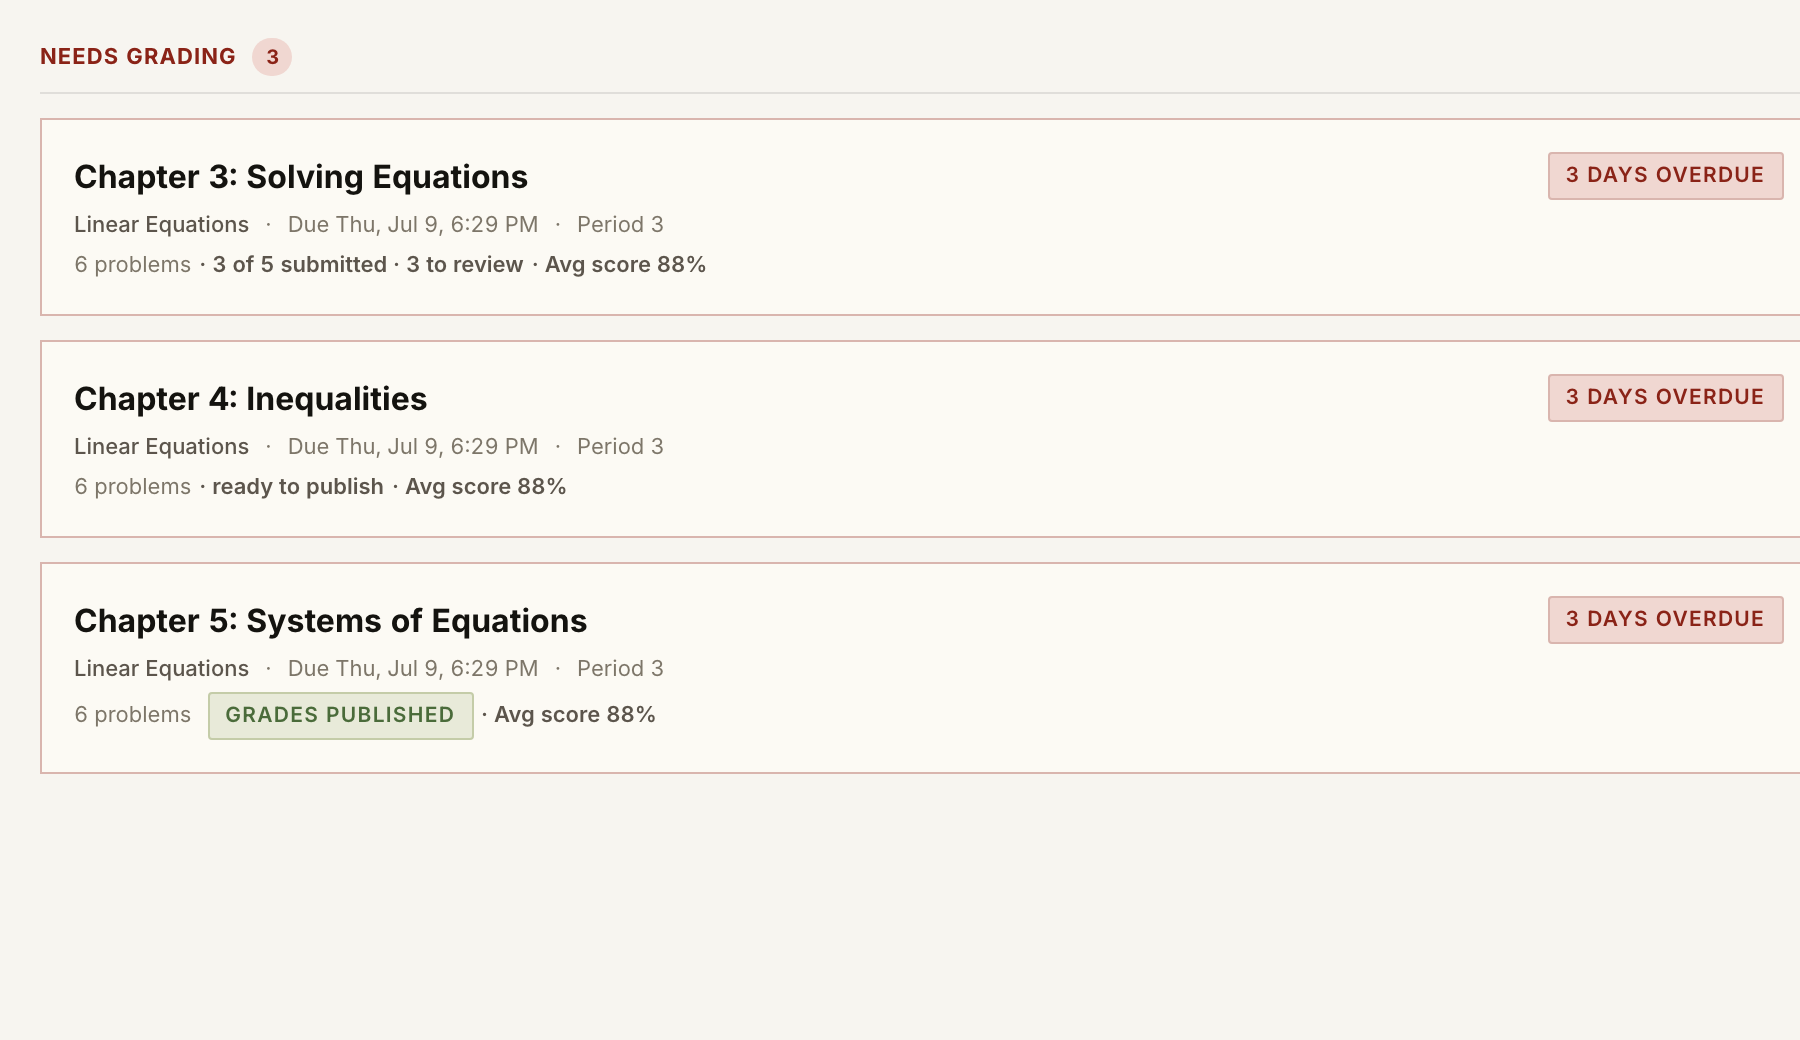
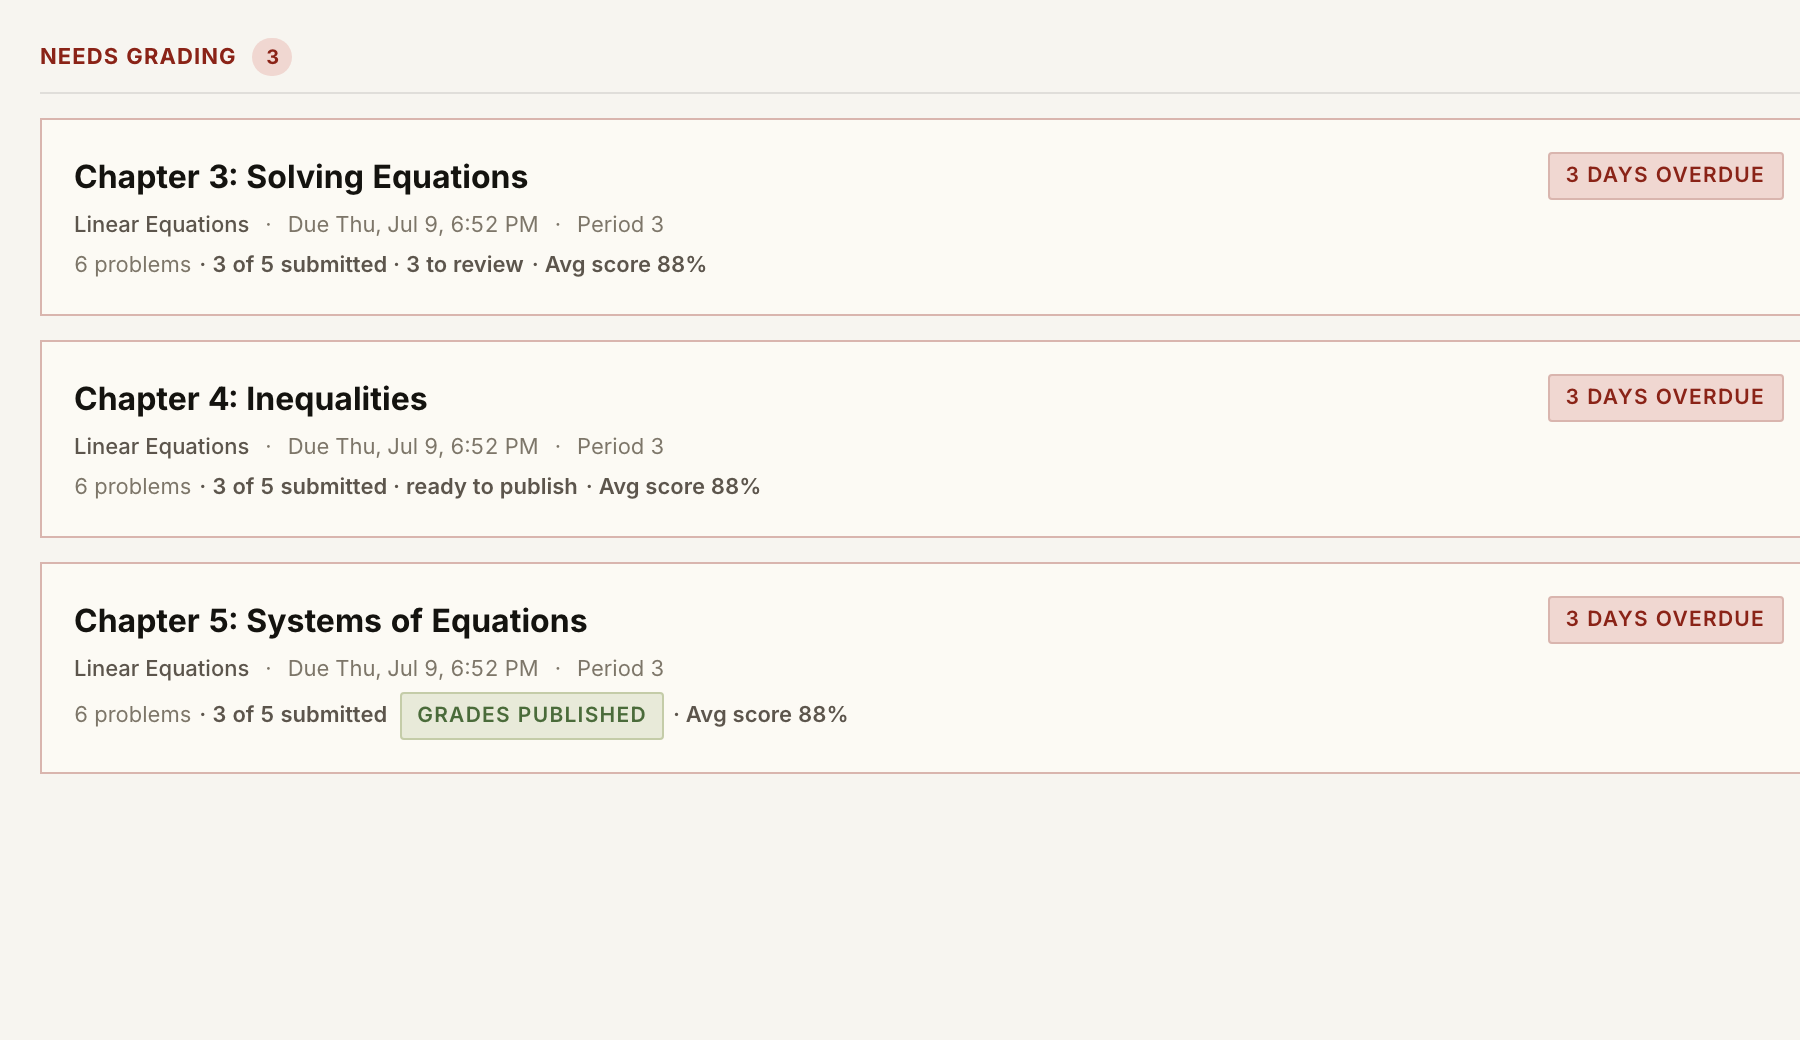
fix(web): lead every homework-card state with submitted-vs-enrolled
Cold review caught that the published + ready-to-publish branches dropped
the 'X of N submitted' context the old card deliberately kept — so a green
'Grades published' pill could read as class-complete on a past-due HW
where students still owe work (in needsGrading, published===submitted
only happens when submitted < total_students). Now every review/publish
branch leads with submitted-vs-enrolled, then the state — a 3-of-5 HW is
never shown as done. Screenshots refreshed.

Changed region(s): [[0.0933, 0.6462, 0.4667, 0.7385], [0.1244, 0.4615, 0.4356, 0.4923]]

diff --git a/web/src/components/school/teacher/_pieces/homework-card.tsx b/web/src/components/school/teacher/_pieces/homework-card.tsx
@@ -56,6 +56,15 @@ export function HomeworkCard({
   // title row so a teacher can scan a stack of cards and pick the one
   // with the largest queue without clicking in.
   const ungraded = Math.max(0, hw.submitted - hw.graded);
+  // Submitted-vs-enrolled context, shown ahead of every review/publish
+  // state so "ready to publish" or a published pill never reads as
+  // class-complete while students still owe work (a 3-of-28 HW is not
+  // "done"). In needsGrading a fully-published HW is always partial — a
+  // complete one is routed to the completed bucket.
+  const submittedLabel =
+    hw.submitted >= hw.total_students
+      ? `all ${hw.submitted} submitted`
+      : `${hw.submitted} of ${hw.total_students} submitted`;
 
   return (
     <button
@@ -125,28 +134,29 @@ export function HomeworkCard({
         {/* Review/publish progress — the honest teacher-workload signal.
             AI grading auto-sets final_score on submit, so "graded" is
             near-always true and useless here; we key off the direct
-            SubmissionGrade lifecycle flags instead:
-              - published === submitted → all grades released to students.
+            SubmissionGrade lifecycle flags instead. Every branch leads
+            with submitted-vs-enrolled so a partial HW never reads as
+            class-complete:
+              - published === submitted → all grades released to students
+                ("Grades published" pill).
               - to_review > 0 → submissions still awaiting the teacher's
-                review (reviewed_at IS NULL), shown against submitted-vs-
-                enrolled so a partial HW doesn't read as class-complete.
+                review (reviewed_at IS NULL).
               - else → everything reviewed, ready for the teacher to
                 publish. */}
-        {bucket === "needsGrading" &&
-          hw.submitted > 0 &&
-          (hw.published === hw.submitted ? (
-            <span className="ml-2 align-middle">
-              <StatusPill tone="green" label="Grades published" />
-            </span>
-          ) : hw.to_review > 0 ? (
-            <span className="ml-1 font-semibold text-text-secondary">
-              · {hw.submitted} of {hw.total_students} submitted · {hw.to_review} to review
-            </span>
-          ) : (
-            <span className="ml-1 font-semibold text-text-secondary">
-              · ready to publish
-            </span>
-          ))}
+        {bucket === "needsGrading" && hw.submitted > 0 && (
+          <span className="ml-1 font-semibold text-text-secondary">
+            · {submittedLabel}
+            {hw.published === hw.submitted ? (
+              <span className="ml-1.5 align-middle">
+                <StatusPill tone="green" label="Grades published" />
+              </span>
+            ) : hw.to_review > 0 ? (
+              <> · {hw.to_review} to review</>
+            ) : (
+              <> · ready to publish</>
+            )}
+          </span>
+        )}
         {hw.pending_review > 0 && (
           <span className="ml-1 font-semibold text-[color:var(--color-warning-dark)] ">
             · {hw.pending_review} need{hw.pending_review === 1 ? "s" : ""} your approval
